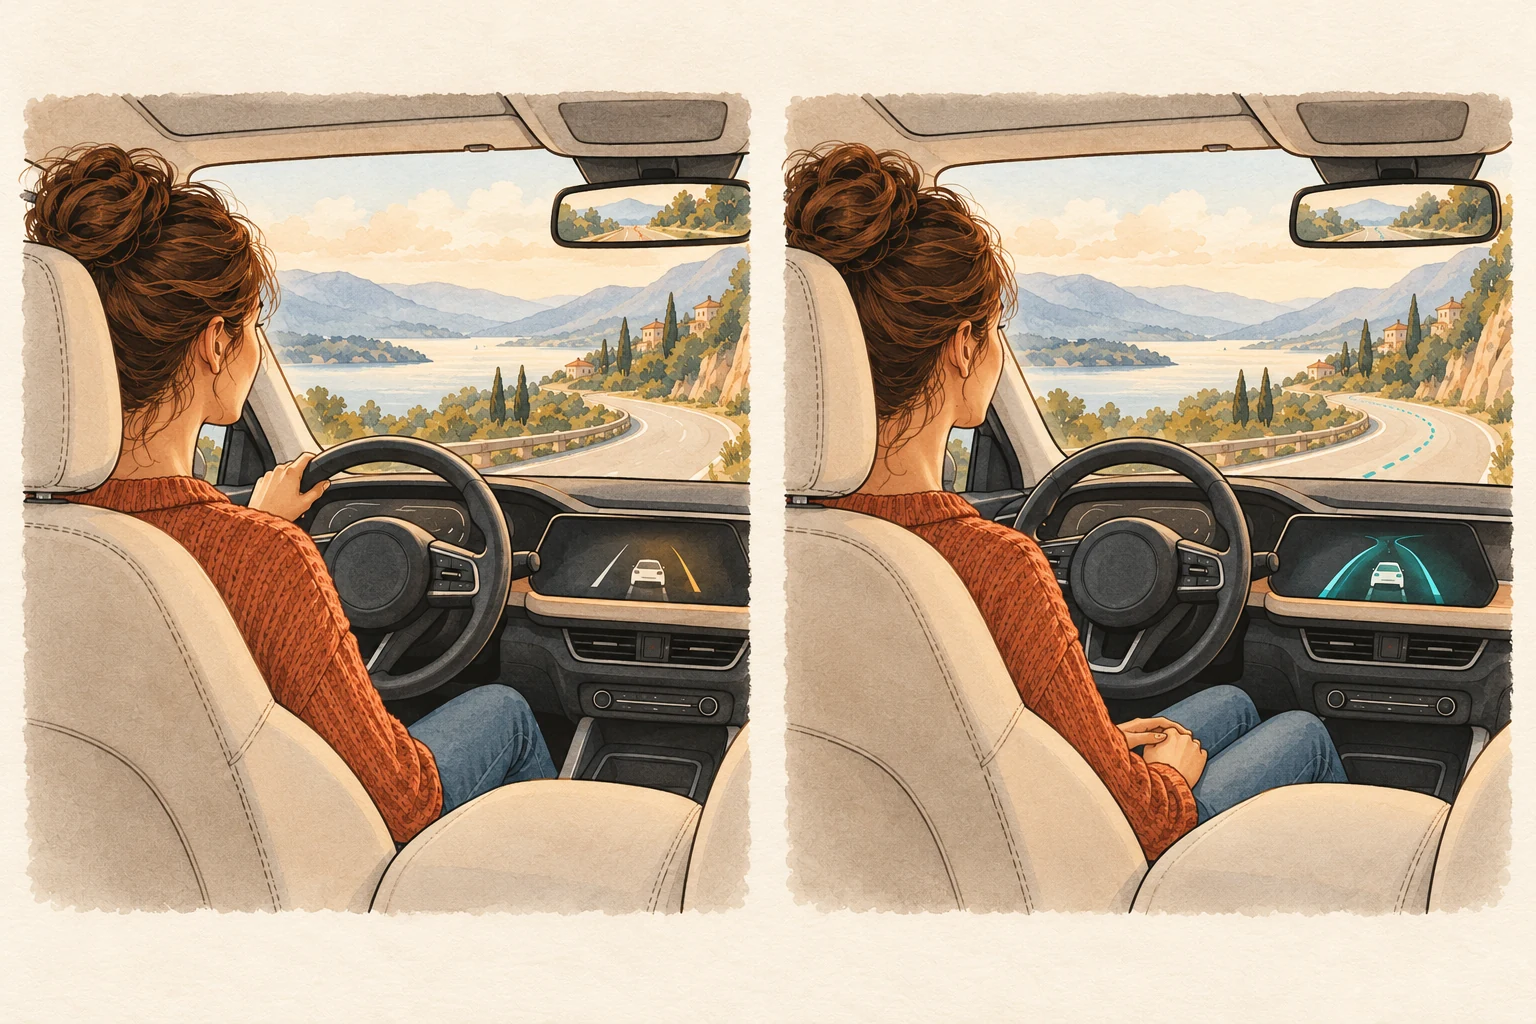
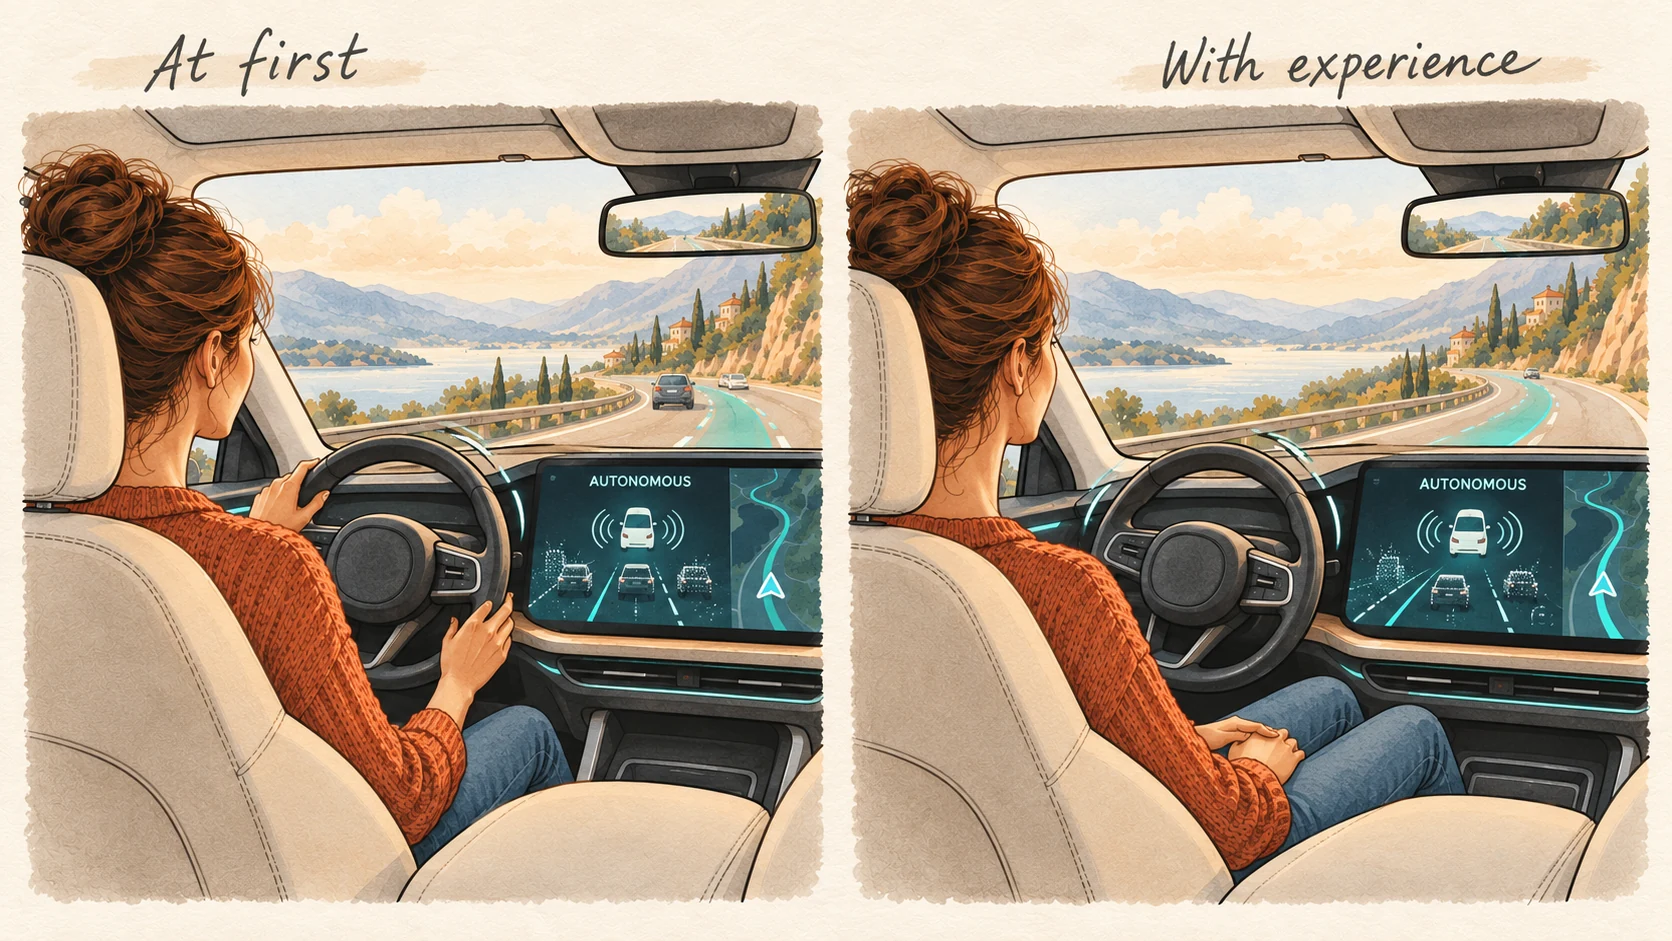
Condense WebMCP diagram and make autonomous-driving analogy visible

diff --git a/_posts/2026-08-17-agents-are-already-browsing.md b/_posts/2026-08-17-agents-are-already-browsing.md
@@ -98,7 +98,7 @@ The first was the self-driving car analogy, which came up while we were talking 
 
 But I also argued that this could change over time. As the models get better and people get more comfortable using them, they may not need to be as involved in every action. My point was that we should work out how to keep the user involved at this stage, while leaving room for that relationship to change as the technology improves.
 
-![Two illustrations of the same person using an automated car: watching closely with a hand on the wheel at first, then sitting more comfortably with less active supervision](/assets/images/webmcp-self-driving-oversight.webp)
+![Two illustrations of a self-driving car with an autonomous route and sensor display: the user watches closely with hands on the wheel at first, then sits back with hands in their lap as confidence grows](/assets/images/webmcp-self-driving-oversight.webp)
 *Close supervision at first, then potentially less involvement as the system improves and the user gains confidence. Illustration generated for this post.*
 
 The second one is me learning something in the middle of the meeting. Khushal pointed out the problem of testing non-deterministic behavior. The browser can test that a tool was registered or called, but part of what we're interested in depends on what the agent decides to do. My response in IRC was:
